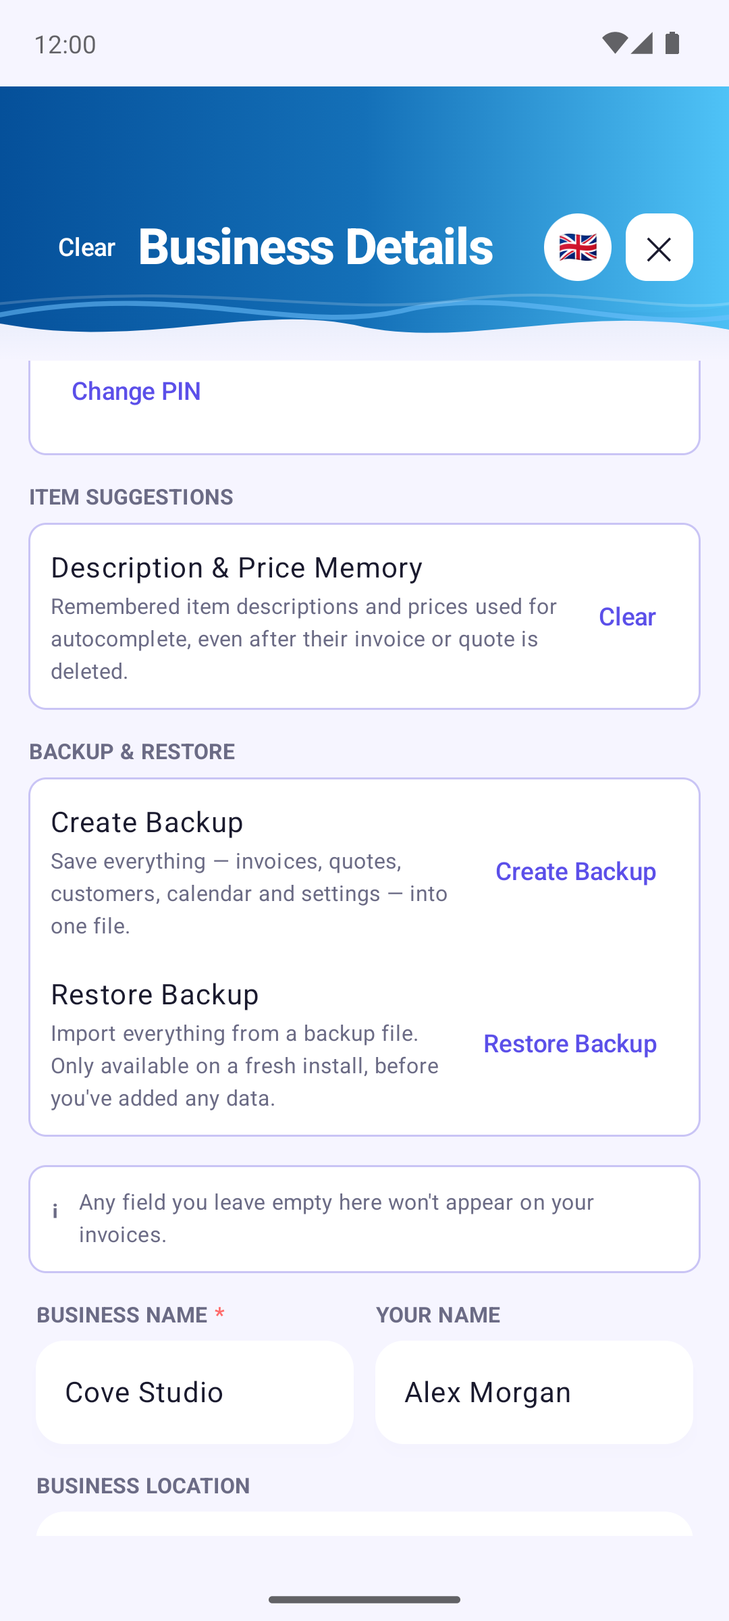
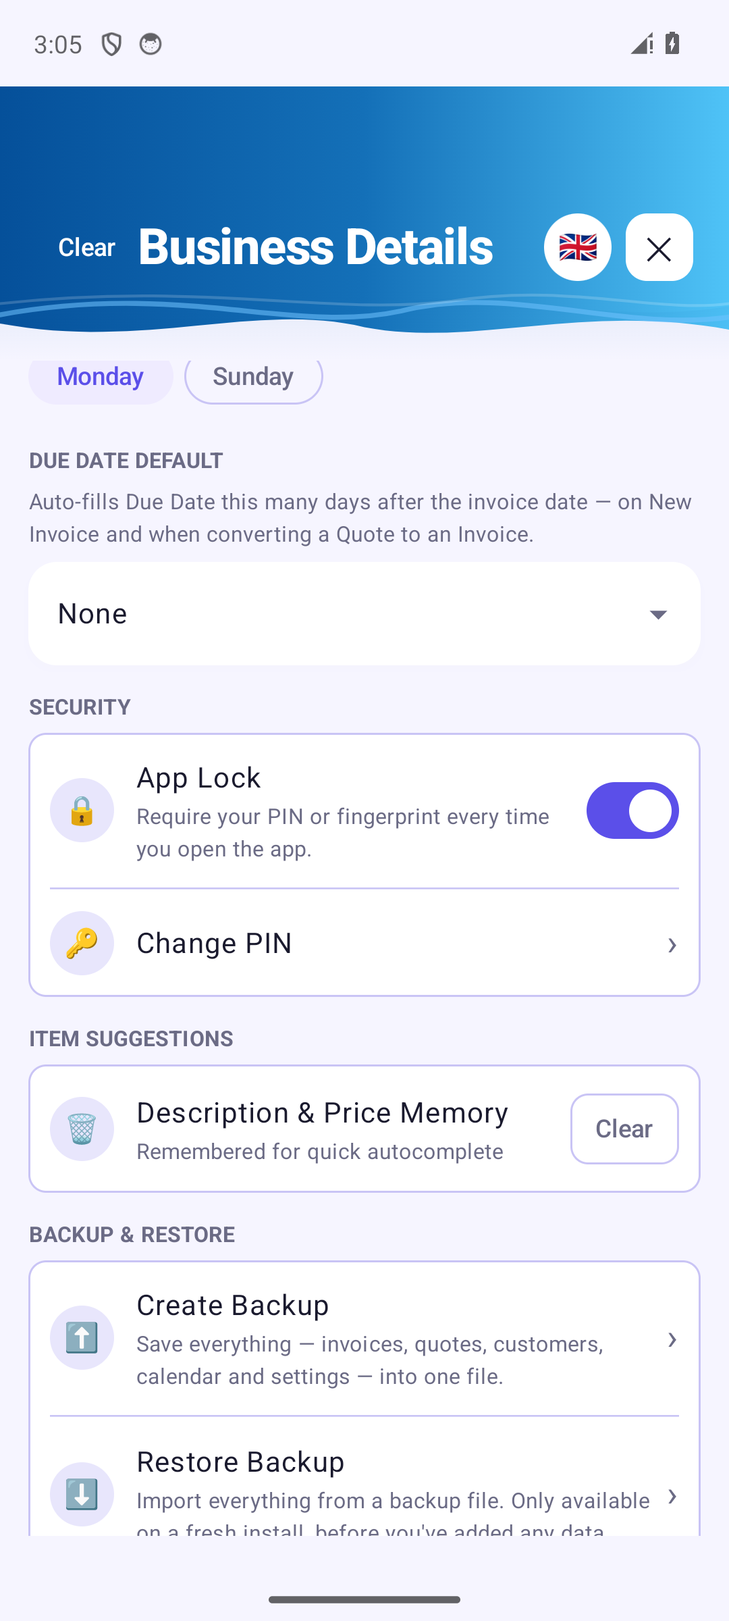
Update manual: detailed export toggle, refreshed UI strings, new Settings screenshots
- Refresh ui/<lang>.json from the app's current strings.xml and rebuild all 13
  manual pages, picking up the detailed (one row per item) Excel/CSV export
  toggle and other recent copy changes.
- Retake backup.png and settings-preferences.png to show the redesigned
  Security, Item Suggestions and Backup & Restore rows (icon badges, no
  duplicated button text, chevron navigation).

diff --git a/manual-hu.html b/manual-hu.html
@@ -154,7 +154,8 @@
           <p>Az Invoice Cove Pro-val érhető el. Koppintson az exportálás ikonra (📄) az <strong>Számlák</strong> fül tetején. A szerepeltetendő számlákat az év és hónap választóval adja meg (<strong>Összes</strong>, egy év vagy egy év egy hónapja — csak azok az évek és hónapok jelennek meg, amelyekben van számla), majd válassza ki, mit tegyen velük:</p>
           <ul><li><strong>Mentés Excelként</strong> / <strong>Excel megosztása</strong> — Excel-táblázat (.xlsx).</li><li><strong>Mentés CSV-ként</strong> / <strong>CSV megosztása</strong> — ugyanaz a táblázat CSV-fájlként.</li><li><strong>Számlák mentése ZIP-ként</strong> / <strong>Számla ZIP megosztása</strong> — a számlák PDF-jei egyetlen ZIP-ben, ügyfelenként egy mappával.</li><li><strong>Számlák törlése</strong> — két megerősítés után véglegesen törli a kiválasztott számlákat.</li></ul>
           <p>A <em>Mentés</em> lehetővé teszi, hogy kiválassza, hová kerüljön a fájl az eszközön; a <em>Megosztás</em> megnyitja az Android megosztás menüjét, hogy e-mailben vagy csevegésben elküldhesse.</p>
-          <p>Az Excel és a CSV a könyvelője számára készült: <strong>számlatételenként egy sor</strong>, a számla adatai minden sorban ismétlődnek — szám és dátumok, az ügyfél neve, száma, adószáma, közösségi adószáma, cégjegyzékszáma és címe, leírás, mennyiség, mértékegység, a tétel egységára és nettó összege, részösszeg, kedvezmény, ÁFA-kulcs, ÁFA-összeg és a számla végösszege, pénznem és állapot, a fizetés dátuma és módja. Az oszlopfejlécek és a fix szavak (számla, kifizetett, kifizetetlen, fizetési módok) az alkalmazás beállított nyelvén vannak.</p>
+          <p>Az Excel és a CSV a könyvelője számára készült: alapértelmezés szerint <strong>számlánként egy sor</strong> — szám és dátumok, az ügyfél neve, száma, adószáma, közösségi adószáma, cégjegyzékszáma és címe, részösszeg, kedvezmény, ÁFA-kulcs, ÁFA-összeg és a számla végösszege, pénznem és állapot, a fizetés dátuma és módja. Az oszlopfejlécek és a fix szavak (számla, kifizetett, kifizetetlen, fizetési módok) az alkalmazás beállított nyelvén vannak.</p>
+          <p>Kapcsold be a <strong>Részletes exportálás (soronként egy tétel)</strong> opciót ugyanazon a panelen, hogy ehelyett számlatételenként egy sort kapj, ahol a számla adatai minden sorban ismétlődnek, és minden tétel leírása, mennyisége, mértékegysége, egységára és nettó összege is szerepel.</p>
         </div>
         <figure class="shot"><img src="assets/screenshots/export.png" alt="Invoice Cove — Számlák exportálása (Excel, CSV, ZIP)" loading="lazy"></figure>
       </div>

diff --git a/manual-fr.html b/manual-fr.html
@@ -154,7 +154,8 @@
           <p>Disponible avec Invoice Cove Pro. Touchez l'icône d'export (📄) en haut de l'onglet <strong>Factures</strong>. Choisissez les factures à inclure avec les sélecteurs d'année et de mois (<strong>Toutes</strong>, une année, ou un mois d'une année — seuls les années et mois qui contiennent des factures sont proposés), puis choisissez l'action :</p>
           <ul><li><strong>Enregistrer en Excel</strong> / <strong>Partager le fichier Excel</strong> — un tableur Excel (.xlsx).</li><li><strong>Enregistrer en CSV</strong> / <strong>Partager le CSV</strong> — le même tableau en fichier CSV.</li><li><strong>Enregistrer les factures en ZIP</strong> / <strong>Partager le ZIP de factures</strong> — les PDF des factures dans un ZIP, un dossier par client.</li><li><strong>Supprimer les factures</strong> — supprime définitivement les factures sélectionnées, après deux confirmations.</li></ul>
           <p><em>Enregistrer</em> vous laisse choisir où le fichier est placé sur votre appareil ; <em>Partager</em> ouvre le menu de partage d'Android pour l'envoyer par e-mail ou dans une discussion.</p>
-          <p>Excel et CSV sont conçus pour votre comptable : <strong>une ligne par article de facture</strong>, avec les informations de la facture répétées sur chaque ligne — numéro et dates, nom, numéro, numéro fiscal, numéro de TVA, numéro du registre du commerce et adresse du client, description, quantité, unité, prix et montant net de l'article, sous-total, remise, taux de TVA, montant de TVA et total de la facture, devise, ainsi que statut, date et moyen de paiement. Les en-têtes de colonnes et les mots fixes (facture, payé, impayé, moyens de paiement) sont écrits dans la langue de l'application.</p>
+          <p>Excel et CSV sont conçus pour votre comptable : par défaut, <strong>une ligne par facture</strong> — numéro et dates, nom, numéro, numéro fiscal, numéro de TVA, numéro du registre du commerce et adresse du client, sous-total, remise, taux de TVA, montant de TVA et total de la facture, devise, ainsi que statut, date et moyen de paiement. Les en-têtes de colonnes et les mots fixes (facture, payé, impayé, moyens de paiement) sont écrits dans la langue de l'application.</p>
+          <p>Activez <strong>Export détaillé (une ligne par article)</strong> dans le même panneau pour obtenir à la place une ligne par article de facture, avec les informations de la facture répétées sur chaque ligne et la description, la quantité, l'unité, le prix et le montant net de chaque article ajoutés.</p>
         </div>
         <figure class="shot"><img src="assets/screenshots/export.png" alt="Invoice Cove — Exporter les factures (Excel, CSV, ZIP)" loading="lazy"></figure>
       </div>

diff --git a/manual-ro.html b/manual-ro.html
@@ -154,7 +154,8 @@
           <p>Disponibil cu Invoice Cove Pro. Atinge pictograma de export (📄) din partea de sus a filei <strong>Facturi</strong>. Alege ce facturi includ cu selectoarele de an și lună (<strong>Toate</strong>, un an sau o lună dintr-un an — sunt oferiți doar anii și lunile în care ai facturi), apoi alege ce faci:</p>
           <ul><li><strong>Salvează ca Excel</strong> / <strong>Trimite Excel</strong> — un tabel Excel (.xlsx).</li><li><strong>Salvează ca CSV</strong> / <strong>Trimite CSV</strong> — același tabel ca fișier CSV.</li><li><strong>Salvează facturile ca ZIP</strong> / <strong>Trimite ZIP cu facturi</strong> — PDF-urile facturilor într-un singur ZIP, câte un dosar pentru fiecare client.</li><li><strong>Șterge facturi</strong> — șterge definitiv facturile selectate, după două confirmări.</li></ul>
           <p><em>Salvare</em> îți lasă alegerea locului din dispozitiv unde ajunge fișierul; <em>Partajare</em> deschide meniul de partajare Android ca să-l trimiți prin email sau într-un chat.</p>
-          <p>Excel și CSV sunt făcute pentru contabilul tău: <strong>un rând pentru fiecare articol de pe factură</strong>, cu datele facturii repetate pe fiecare rând — numărul și datele, numele, numărul, codul fiscal, numărul de TVA, numărul de la registrul comerțului și adresa clientului, descrierea, cantitatea, unitatea, prețul și valoarea netă a articolului, subtotalul, reducerea, cota de TVA, valoarea TVA și totalul facturii, moneda, precum și starea, data și metoda plății. Titlurile coloanelor și cuvintele fixe (factură, plătit, neplătit, metode de plată) sunt scrise în limba în care este setată aplicația.</p>
+          <p>Excel și CSV sunt făcute pentru contabilul tău: implicit, <strong>un rând pentru fiecare factură</strong> — numărul și datele, numele, numărul, codul fiscal, numărul de TVA, numărul de la registrul comerțului și adresa clientului, subtotalul, reducerea, cota de TVA, valoarea TVA și totalul facturii, moneda, precum și starea, data și metoda plății. Titlurile coloanelor și cuvintele fixe (factură, plătit, neplătit, metode de plată) sunt scrise în limba în care este setată aplicația.</p>
+          <p>Activează <strong>Export detaliat (o linie per articol)</strong> din același sheet ca să obții în schimb un rând pentru fiecare articol de pe factură, cu datele facturii repetate pe fiecare rând și descrierea, cantitatea, unitatea, prețul și valoarea netă ale fiecărui articol adăugate.</p>
         </div>
         <figure class="shot"><img src="assets/screenshots/export.png" alt="Invoice Cove — Exportul facturilor (Excel, CSV, ZIP)" loading="lazy"></figure>
       </div>

diff --git a/manual-es.html b/manual-es.html
@@ -154,7 +154,8 @@
           <p>Disponible con Invoice Cove Pro. Toca el icono de exportar (📄) en la parte superior de la pestaña <strong>Facturas</strong>. Elige qué facturas incluir con los selectores de año y mes (<strong>Todas</strong>, un año o un mes de un año; solo se ofrecen los años y meses que tienen facturas) y después elige qué hacer:</p>
           <ul><li><strong>Guardar como Excel</strong> / <strong>Compartir Excel</strong>: una hoja de cálculo de Excel (.xlsx).</li><li><strong>Guardar como CSV</strong> / <strong>Compartir CSV</strong>: la misma tabla como archivo CSV.</li><li><strong>Guardar facturas como ZIP</strong> / <strong>Compartir ZIP de facturas</strong>: los PDF de las facturas en un ZIP, una carpeta por cliente.</li><li><strong>Eliminar facturas</strong>: elimina para siempre las facturas seleccionadas, tras dos confirmaciones.</li></ul>
           <p><em>Guardar</em> te deja elegir en qué lugar del dispositivo queda el archivo; <em>Compartir</em> abre el menú de compartir de Android para enviarlo por correo o en un chat.</p>
-          <p>Excel y CSV están pensados para tu contable: <strong>una fila por cada artículo de la factura</strong>, con los datos de la factura repetidos en cada fila: número y fechas, nombre, número, identificación fiscal, número de IVA, número del registro mercantil y dirección del cliente, descripción, cantidad, unidad, precio e importe neto del artículo, subtotal, descuento, tipo de IVA, importe de IVA y total de la factura, la moneda y el estado, la fecha y el método de pago. Los encabezados de columna y las palabras fijas (factura, pagada, sin pagar, métodos de pago) se escriben en el idioma configurado en la aplicación.</p>
+          <p>Excel y CSV están pensados para tu contable: por defecto, <strong>una fila por factura</strong> — número y fechas, nombre, número, identificación fiscal, número de IVA, número del registro mercantil y dirección del cliente, subtotal, descuento, tipo de IVA, importe de IVA y total de la factura, la moneda y el estado, la fecha y el método de pago. Los encabezados de columna y las palabras fijas (factura, pagada, sin pagar, métodos de pago) se escriben en el idioma configurado en la aplicación.</p>
+          <p>Activa <strong>Exportación detallada (una fila por artículo)</strong> en el mismo panel para obtener en su lugar una fila por cada artículo de la factura, con los datos de la factura repetidos en cada fila y la descripción, cantidad, unidad, precio e importe neto de cada artículo añadidos.</p>
         </div>
         <figure class="shot"><img src="assets/screenshots/export.png" alt="Invoice Cove — Exportar facturas (Excel, CSV, ZIP)" loading="lazy"></figure>
       </div>

diff --git a/manual-de.html b/manual-de.html
@@ -154,7 +154,8 @@
           <p>Mit Invoice Cove Pro verfügbar. Tippe oben im Reiter <strong>Rechnungen</strong> auf das Export-Symbol (📄). Wähle mit den Jahres- und Monatsauswahlen, welche Rechnungen enthalten sein sollen (<strong>Alle</strong>, ein Jahr oder ein Monat eines Jahres — angeboten werden nur Jahre und Monate mit Rechnungen), und entscheide dann, was passieren soll:</p>
           <ul><li><strong>Als Excel speichern</strong> / <strong>Excel teilen</strong> — eine Excel-Tabelle (.xlsx).</li><li><strong>Als CSV speichern</strong> / <strong>CSV teilen</strong> — dieselbe Tabelle als CSV-Datei.</li><li><strong>Rechnungen als ZIP speichern</strong> / <strong>Rechnungs-ZIP teilen</strong> — die Rechnungs-PDFs in einem ZIP, ein Ordner pro Kunde.</li><li><strong>Rechnungen löschen</strong> — löscht die ausgewählten Rechnungen endgültig, nach zwei Bestätigungen.</li></ul>
           <p><em>Speichern</em> lässt dich wählen, wo auf deinem Gerät die Datei landet; <em>Teilen</em> öffnet das Android-Teilen-Menü, damit du sie per E-Mail oder im Chat verschicken kannst.</p>
-          <p>Excel und CSV sind für deinen Steuerberater gemacht: <strong>eine Zeile pro Rechnungsposition</strong>, wobei die Rechnungsdaten in jeder Zeile wiederholt werden — Nummer und Daten, Name, Nummer, Steuernummer, USt-IdNr., Handelsregisternummer und Adresse des Kunden, Beschreibung, Menge, Einheit, Preis und Nettobetrag der Position, Zwischensumme, Rabatt, Steuersatz, Steuerbetrag und Gesamtsumme der Rechnung, die Währung sowie Zahlungsstatus, -datum und -art. Spaltenüberschriften und feste Wörter (Rechnung, bezahlt, unbezahlt, Zahlungsarten) stehen in der Sprache, auf die die App eingestellt ist.</p>
+          <p>Excel und CSV sind für deinen Steuerberater gemacht: standardmäßig <strong>eine Zeile pro Rechnung</strong> — Nummer und Daten, Name, Nummer, Steuernummer, USt-IdNr., Handelsregisternummer und Adresse des Kunden, Zwischensumme, Rabatt, Steuersatz, Steuerbetrag und Gesamtsumme der Rechnung, die Währung sowie Zahlungsstatus, -datum und -art. Spaltenüberschriften und feste Wörter (Rechnung, bezahlt, unbezahlt, Zahlungsarten) stehen in der Sprache, auf die die App eingestellt ist.</p>
+          <p>Aktiviere <strong>Detaillierter Export (eine Zeile pro Position)</strong> im selben Sheet, um stattdessen eine Zeile pro Rechnungsposition zu erhalten, wobei die Rechnungsdaten in jeder Zeile wiederholt werden und Beschreibung, Menge, Einheit, Preis und Nettobetrag jeder Position hinzugefügt werden.</p>
         </div>
         <figure class="shot"><img src="assets/screenshots/export.png" alt="Invoice Cove — Rechnungen exportieren (Excel, CSV, ZIP)" loading="lazy"></figure>
       </div>

diff --git a/manual-it.html b/manual-it.html
@@ -154,7 +154,8 @@
           <p>Disponibile con Invoice Cove Pro. Tocca l'icona di esportazione (📄) in alto nella scheda <strong>Fatture</strong>. Scegli quali fatture includere con i selettori di anno e mese (<strong>Tutte</strong>, un anno o un mese di un anno — vengono proposti solo gli anni e i mesi che hanno fatture), poi scegli cosa fare:</p>
           <ul><li><strong>Salva come Excel</strong> / <strong>Condividi Excel</strong> — un foglio di calcolo Excel (.xlsx).</li><li><strong>Salva come CSV</strong> / <strong>Condividi CSV</strong> — la stessa tabella come file CSV.</li><li><strong>Salva fatture come ZIP</strong> / <strong>Condividi ZIP fatture</strong> — i PDF delle fatture in un unico ZIP, una cartella per cliente.</li><li><strong>Elimina fatture</strong> — elimina definitivamente le fatture selezionate, dopo due conferme.</li></ul>
           <p><em>Salva</em> ti lascia scegliere dove sul dispositivo va il file; <em>Condividi</em> apre il menu di condivisione di Android per inviarlo via email o in una chat.</p>
-          <p>Excel e CSV sono pensati per il tuo commercialista: <strong>una riga per ogni voce di fattura</strong>, con i dati della fattura ripetuti su ogni riga — numero e date, nome, numero, codice fiscale, partita IVA, numero del registro delle imprese e indirizzo del cliente, descrizione, quantità, unità, prezzo e importo netto della voce, subtotale, sconto, aliquota IVA, importo IVA e totale della fattura, la valuta, e stato, data e metodo di pagamento. Le intestazioni delle colonne e le parole fisse (fattura, pagata, non pagata, metodi di pagamento) sono scritte nella lingua impostata nell'app.</p>
+          <p>Excel e CSV sono pensati per il tuo commercialista: per impostazione predefinita, <strong>una riga per ogni fattura</strong> — numero e date, nome, numero, codice fiscale, partita IVA, numero del registro delle imprese e indirizzo del cliente, subtotale, sconto, aliquota IVA, importo IVA e totale della fattura, la valuta, e stato, data e metodo di pagamento. Le intestazioni delle colonne e le parole fisse (fattura, pagata, non pagata, metodi di pagamento) sono scritte nella lingua impostata nell'app.</p>
+          <p>Attiva <strong>Esportazione dettagliata (una riga per articolo)</strong> nello stesso foglio per ottenere invece una riga per ogni voce di fattura, con i dati della fattura ripetuti su ogni riga e descrizione, quantità, unità, prezzo e importo netto di ogni voce aggiunti.</p>
         </div>
         <figure class="shot"><img src="assets/screenshots/export.png" alt="Invoice Cove — Esportare le fatture (Excel, CSV, ZIP)" loading="lazy"></figure>
       </div>

diff --git a/manual-pt.html b/manual-pt.html
@@ -154,7 +154,8 @@
           <p>Disponível com o Invoice Cove Pro. Toque no ícone de exportação (📄) no topo do separador <strong>Faturas</strong>. Escolha as faturas a incluir com os seletores de ano e mês (<strong>Todas</strong>, um ano ou um mês de um ano — só são oferecidos os anos e os meses que têm faturas) e depois escolha o que fazer:</p>
           <ul><li><strong>Guardar como Excel</strong> / <strong>Partilhar Excel</strong> — uma folha de cálculo Excel (.xlsx).</li><li><strong>Guardar como CSV</strong> / <strong>Partilhar CSV</strong> — a mesma tabela como ficheiro CSV.</li><li><strong>Guardar faturas como ZIP</strong> / <strong>Partilhar ZIP de faturas</strong> — os PDF das faturas num ZIP, uma pasta por cliente.</li><li><strong>Eliminar faturas</strong> — elimina definitivamente as faturas selecionadas, após duas confirmações.</li></ul>
           <p><em>Guardar</em> deixa-o escolher onde no dispositivo fica o ficheiro; <em>Partilhar</em> abre o menu de partilha do Android para o enviar por e-mail ou numa conversa.</p>
-          <p>O Excel e o CSV são feitos para o seu contabilista: <strong>uma linha por artigo da fatura</strong>, com os dados da fatura repetidos em cada linha — número e datas, nome, número, número fiscal, número de IVA, número do registo comercial e morada do cliente, descrição, quantidade, unidade, preço e valor líquido do artigo, subtotal, desconto, taxa de IVA, valor do IVA e total da fatura, a moeda, e o estado, a data e o método de pagamento. Os cabeçalhos das colunas e as palavras fixas (fatura, paga, não paga, métodos de pagamento) são escritos no idioma definido na aplicação.</p>
+          <p>O Excel e o CSV são feitos para o seu contabilista: por predefinição, <strong>uma linha por fatura</strong> — número e datas, nome, número, número fiscal, número de IVA, número do registo comercial e morada do cliente, subtotal, desconto, taxa de IVA, valor do IVA e total da fatura, a moeda, e o estado, a data e o método de pagamento. Os cabeçalhos das colunas e as palavras fixas (fatura, paga, não paga, métodos de pagamento) são escritos no idioma definido na aplicação.</p>
+          <p>Ative <strong>Exportação detalhada (uma linha por item)</strong> na mesma folha para obter, em vez disso, uma linha por artigo da fatura, com os dados da fatura repetidos em cada linha e a descrição, quantidade, unidade, preço e valor líquido de cada artigo adicionados.</p>
         </div>
         <figure class="shot"><img src="assets/screenshots/export.png" alt="Invoice Cove — Exportar faturas (Excel, CSV, ZIP)" loading="lazy"></figure>
       </div>

diff --git a/manual-sk.html b/manual-sk.html
@@ -154,7 +154,8 @@
           <p>K dispozícii s Invoice Cove Pro. Klepnite na ikonu exportu (📄) hore na karte <strong>Faktúry</strong>. Ktoré faktúry zahrnúť, vyberiete pomocou volieb roka a mesiaca (<strong>Všetky</strong>, jeden rok alebo jeden mesiac roka — ponúkajú sa len roky a mesiace, v ktorých faktúry sú), a potom vyberte, čo s nimi urobiť:</p>
           <ul><li><strong>Uložiť ako Excel</strong> / <strong>Zdieľať Excel</strong> — tabuľka v Exceli (.xlsx).</li><li><strong>Uložiť ako CSV</strong> / <strong>Zdieľať CSV</strong> — tá istá tabuľka ako súbor CSV.</li><li><strong>Uložiť faktúry ako ZIP</strong> / <strong>Zdieľať ZIP s faktúrami</strong> — PDF faktúr v jednom ZIPe, jeden priečinok na zákazníka.</li><li><strong>Odstrániť faktúry</strong> — natrvalo zmaže vybrané faktúry po dvoch potvrdeniach.</li></ul>
           <p><em>Uložiť</em> vám nechá vybrať, kam v zariadení súbor pôjde; <em>Zdieľať</em> otvorí zdieľaciu ponuku Androidu, aby ste ho poslali e-mailom alebo v chate.</p>
-          <p>Excel a CSV sú vytvorené pre vášho účtovníka: <strong>jeden riadok na každú položku faktúry</strong>, pričom údaje o faktúre sa opakujú na každom riadku — číslo a dátumy, meno, číslo, daňové číslo, IČ DPH, číslo obchodného registra a adresa zákazníka, popis, množstvo, jednotka, cena a čistá suma položky, medzisúčet, zľava, sadzba DPH, suma DPH a spolu faktúry, mena a stav, dátum a spôsob platby. Hlavičky stĺpcov a pevné slová (faktúra, zaplatené, nezaplatené, spôsoby platby) sú v jazyku, na ktorý je aplikácia nastavená.</p>
+          <p>Excel a CSV sú vytvorené pre vášho účtovníka: predvolene <strong>jeden riadok na faktúru</strong> — číslo a dátumy, meno, číslo, daňové číslo, IČ DPH, číslo obchodného registra a adresa zákazníka, medzisúčet, zľava, sadzba DPH, suma DPH a spolu faktúry, mena a stav, dátum a spôsob platby. Hlavičky stĺpcov a pevné slová (faktúra, zaplatené, nezaplatené, spôsoby platby) sú v jazyku, na ktorý je aplikácia nastavená.</p>
+          <p>Zapnite <strong>Podrobný export (jeden riadok na položku)</strong> v tom istom paneli, aby ste namiesto toho získali jeden riadok na každú položku faktúry, pričom údaje o faktúre sa opakujú na každom riadku a pridá sa popis, množstvo, jednotka, cena a čistá suma každej položky.</p>
         </div>
         <figure class="shot"><img src="assets/screenshots/export.png" alt="Invoice Cove — Export faktúr (Excel, CSV, ZIP)" loading="lazy"></figure>
       </div>

diff --git a/manual-cs.html b/manual-cs.html
@@ -154,7 +154,8 @@
           <p>K dispozici s Invoice Cove Pro. Klepněte na ikonu exportu (📄) nahoře na kartě <strong>Faktury</strong>. Které faktury zahrnout, vyberete pomocí voleb roku a měsíce (<strong>Vše</strong>, jeden rok nebo jeden měsíc roku — nabízejí se jen roky a měsíce, ve kterých faktury jsou), a poté vyberte, co s nimi udělat:</p>
           <ul><li><strong>Uložit jako Excel</strong> / <strong>Sdílet Excel</strong> — tabulka v Excelu (.xlsx).</li><li><strong>Uložit jako CSV</strong> / <strong>Sdílet CSV</strong> — táž tabulka jako soubor CSV.</li><li><strong>Uložit faktury jako ZIP</strong> / <strong>Sdílet ZIP s fakturami</strong> — PDF faktur v jednom ZIPu, jedna složka na zákazníka.</li><li><strong>Smazat faktury</strong> — trvale smaže vybrané faktury po dvou potvrzeních.</li></ul>
           <p><em>Uložit</em> vám nechá vybrat, kam v zařízení soubor půjde; <em>Sdílet</em> otevře sdílecí nabídku Androidu, abyste ho poslali e-mailem nebo v chatu.</p>
-          <p>Excel a CSV jsou vytvořeny pro vašeho účetního: <strong>jeden řádek na každou položku faktury</strong>, přičemž údaje o faktuře se opakují na každém řádku — číslo a data, jméno, číslo, daňové číslo, DIČ, číslo obchodního rejstříku a adresa zákazníka, popis, množství, jednotka, cena a čistá částka položky, mezisoučet, sleva, sazba DPH, částka DPH a celkem faktury, měna a stav, datum a způsob platby. Záhlaví sloupců a pevná slova (faktura, zaplaceno, nezaplaceno, způsoby platby) jsou v jazyce, na který je aplikace nastavena.</p>
+          <p>Excel a CSV jsou vytvořeny pro vašeho účetního: ve výchozím nastavení <strong>jeden řádek na fakturu</strong> — číslo a data, jméno, číslo, daňové číslo, DIČ, číslo obchodního rejstříku a adresa zákazníka, mezisoučet, sleva, sazba DPH, částka DPH a celkem faktury, měna a stav, datum a způsob platby. Záhlaví sloupců a pevná slova (faktura, zaplaceno, nezaplaceno, způsoby platby) jsou v jazyce, na který je aplikace nastavena.</p>
+          <p>Zapněte <strong>Podrobný export (jeden řádek na položku)</strong> ve stejném panelu, abyste místo toho získali jeden řádek na každou položku faktury, přičemž údaje o faktuře se opakují na každém řádku a přidán je popis, množství, jednotka, cena a čistá částka každé položky.</p>
         </div>
         <figure class="shot"><img src="assets/screenshots/export.png" alt="Invoice Cove — Export faktur (Excel, CSV, ZIP)" loading="lazy"></figure>
       </div>

diff --git a/manual-nl.html b/manual-nl.html
@@ -154,7 +154,8 @@
           <p>Beschikbaar met Invoice Cove Pro. Tik op het exportpictogram (📄) bovenaan het tabblad <strong>Facturen</strong>. Kies welke facturen worden opgenomen met de jaar- en maandkeuze (<strong>Alle</strong>, één jaar of één maand van een jaar — alleen jaren en maanden waarin facturen bestaan worden aangeboden) en kies daarna wat u ermee wilt doen:</p>
           <ul><li><strong>Opslaan als Excel</strong> / <strong>Excel delen</strong> — een Excel-spreadsheet (.xlsx).</li><li><strong>Opslaan als CSV</strong> / <strong>CSV delen</strong> — dezelfde tabel als CSV-bestand.</li><li><strong>Facturen opslaan als ZIP</strong> / <strong>Facturen-ZIP delen</strong> — de pdf's van de facturen in één ZIP, met een map per klant.</li><li><strong>Facturen verwijderen</strong> — verwijdert de gekozen facturen definitief na twee bevestigingen.</li></ul>
           <p>Met <em>Opslaan</em> kiest u waar op het apparaat het bestand terechtkomt; <em>Delen</em> opent het deelmenu van Android zodat u het per e-mail of in een chat kunt versturen.</p>
-          <p>Excel en CSV zijn gemaakt voor uw boekhouder: <strong>één rij per factuurregel</strong>, waarbij de factuurgegevens op elke rij worden herhaald — nummer en data, naam, nummer, fiscaal nummer, btw-nummer, handelsregisternummer en adres van de klant, omschrijving, aantal, eenheid, prijs en nettobedrag van de regel, subtotaal, korting, btw-tarief, btw-bedrag en factuurtotaal, valuta en status, datum en wijze van betaling. De kolomkoppen en vaste woorden (factuur, betaald, onbetaald, betaalwijzen) staan in de taal waarop de app is ingesteld.</p>
+          <p>Excel en CSV zijn gemaakt voor uw boekhouder: standaard <strong>één rij per factuur</strong> — nummer en data, naam, nummer, fiscaal nummer, btw-nummer, handelsregisternummer en adres van de klant, subtotaal, korting, btw-tarief, btw-bedrag en factuurtotaal, valuta en status, datum en wijze van betaling. De kolomkoppen en vaste woorden (factuur, betaald, onbetaald, betaalwijzen) staan in de taal waarop de app is ingesteld.</p>
+          <p>Zet <strong>Gedetailleerde export (één regel per artikel)</strong> aan in hetzelfde blad om in plaats daarvan één rij per factuurregel te krijgen, waarbij de factuurgegevens op elke rij worden herhaald en de omschrijving, het aantal, de eenheid, de prijs en het nettobedrag van elke regel worden toegevoegd.</p>
         </div>
         <figure class="shot"><img src="assets/screenshots/export.png" alt="Invoice Cove — Facturen exporteren (Excel, CSV, ZIP)" loading="lazy"></figure>
       </div>

diff --git a/manual-pl.html b/manual-pl.html
@@ -154,7 +154,8 @@
           <p>Dostępne w Invoice Cove Pro. Dotknij ikony eksportu (📄) u góry zakładki <strong>Faktury</strong>. Wybierz, które faktury uwzględnić, za pomocą wyboru roku i miesiąca (<strong>Wszystkie</strong>, jeden rok lub jeden miesiąc danego roku — oferowane są tylko lata i miesiące, w których są faktury), a potem wybierz, co zrobić:</p>
           <ul><li><strong>Zapisz jako Excel</strong> / <strong>Udostępnij Excel</strong> — arkusz Excela (.xlsx).</li><li><strong>Zapisz jako CSV</strong> / <strong>Udostępnij CSV</strong> — ta sama tabela jako plik CSV.</li><li><strong>Zapisz faktury jako ZIP</strong> / <strong>Udostępnij ZIP z fakturami</strong> — pliki PDF faktur w jednym ZIP-ie, po jednym folderze na klienta.</li><li><strong>Usuń faktury</strong> — trwale usuwa wybrane faktury, po dwóch potwierdzeniach.</li></ul>
           <p><em>Zapisz</em> pozwala wybrać, gdzie w urządzeniu trafi plik; <em>Udostępnij</em> otwiera menu udostępniania Androida, aby wysłać go e-mailem lub w czacie.</p>
-          <p>Excel i CSV są przygotowane dla Twojego księgowego: <strong>jeden wiersz na każdą pozycję faktury</strong>, z danymi faktury powtórzonymi w każdym wierszu — numer i daty, nazwa, numer, numer podatkowy, numer VAT, numer rejestru handlowego i adres klienta, opis, ilość, jednostka, cena i kwota netto pozycji, suma częściowa, rabat, stawka VAT, kwota VAT i suma faktury, waluta oraz status, data i sposób płatności. Nagłówki kolumn i stałe słowa (faktura, opłacona, nieopłacona, sposoby płatności) są zapisane w języku ustawionym w aplikacji.</p>
+          <p>Excel i CSV są przygotowane dla Twojego księgowego: domyślnie <strong>jeden wiersz na fakturę</strong> — numer i daty, nazwa, numer, numer podatkowy, numer VAT, numer rejestru handlowego i adres klienta, suma częściowa, rabat, stawka VAT, kwota VAT i suma faktury, waluta oraz status, data i sposób płatności. Nagłówki kolumn i stałe słowa (faktura, opłacona, nieopłacona, sposoby płatności) są zapisane w języku ustawionym w aplikacji.</p>
+          <p>Włącz <strong>Eksport szczegółowy (jeden wiersz na pozycję)</strong> w tym samym arkuszu, aby zamiast tego uzyskać jeden wiersz na każdą pozycję faktury, z danymi faktury powtórzonymi w każdym wierszu oraz dodanym opisem, ilością, jednostką, ceną i kwotą netto każdej pozycji.</p>
         </div>
         <figure class="shot"><img src="assets/screenshots/export.png" alt="Invoice Cove — Eksport faktur (Excel, CSV, ZIP)" loading="lazy"></figure>
       </div>

diff --git a/manual-sv.html b/manual-sv.html
@@ -154,7 +154,8 @@
           <p>Tillgängligt med Invoice Cove Pro. Tryck på exportikonen (📄) högst upp på fliken <strong>Fakturor</strong>. Välj vilka fakturor som ska tas med med år- och månadsväljaren (<strong>Alla</strong>, ett år eller en månad i ett år — bara år och månader där det finns fakturor erbjuds) och välj sedan vad du vill göra med dem:</p>
           <ul><li><strong>Spara som Excel</strong> / <strong>Dela Excel</strong> — ett Excel-kalkylblad (.xlsx).</li><li><strong>Spara som CSV</strong> / <strong>Dela CSV</strong> — samma tabell som en CSV-fil.</li><li><strong>Spara fakturor som ZIP</strong> / <strong>Dela fakturor som ZIP</strong> — fakturornas PDF:er i en ZIP, med en mapp per kund.</li><li><strong>Ta bort fakturor</strong> — tar permanent bort de valda fakturorna efter två bekräftelser.</li></ul>
           <p>Med <em>Spara</em> väljer du var på enheten filen hamnar; <em>Dela</em> öppnar Androids delningsmeny så att du kan skicka den via e-post eller i en chatt.</p>
-          <p>Excel och CSV är gjorda för din revisor: <strong>en rad per fakturarad</strong>, där fakturauppgifterna upprepas på varje rad — nummer och datum, kundens namn, nummer, skatte-ID, momsregistreringsnummer, handelsregisternummer och adress, beskrivning, antal, enhet, radens pris och nettobelopp, delsumma, rabatt, momssats, momsbelopp och fakturans totalbelopp, valuta och status, betalningsdatum och betalsätt. Kolumnrubrikerna och de fasta orden (faktura, betald, obetald, betalsätt) står på det språk som appen är inställd på.</p>
+          <p>Excel och CSV är gjorda för din revisor: som standard <strong>en rad per faktura</strong> — nummer och datum, kundens namn, nummer, skatte-ID, momsregistreringsnummer, handelsregisternummer och adress, delsumma, rabatt, momssats, momsbelopp och fakturans totalbelopp, valuta och status, betalningsdatum och betalsätt. Kolumnrubrikerna och de fasta orden (faktura, betald, obetald, betalsätt) står på det språk som appen är inställd på.</p>
+          <p>Slå på <strong>Detaljerad export (en rad per artikel)</strong> i samma blad för att i stället få en rad per fakturarad, där fakturauppgifterna upprepas på varje rad och beskrivning, antal, enhet, pris och nettobelopp för varje rad läggs till.</p>
         </div>
         <figure class="shot"><img src="assets/screenshots/export.png" alt="Invoice Cove — Exportera fakturor (Excel, CSV, ZIP)" loading="lazy"></figure>
       </div>
